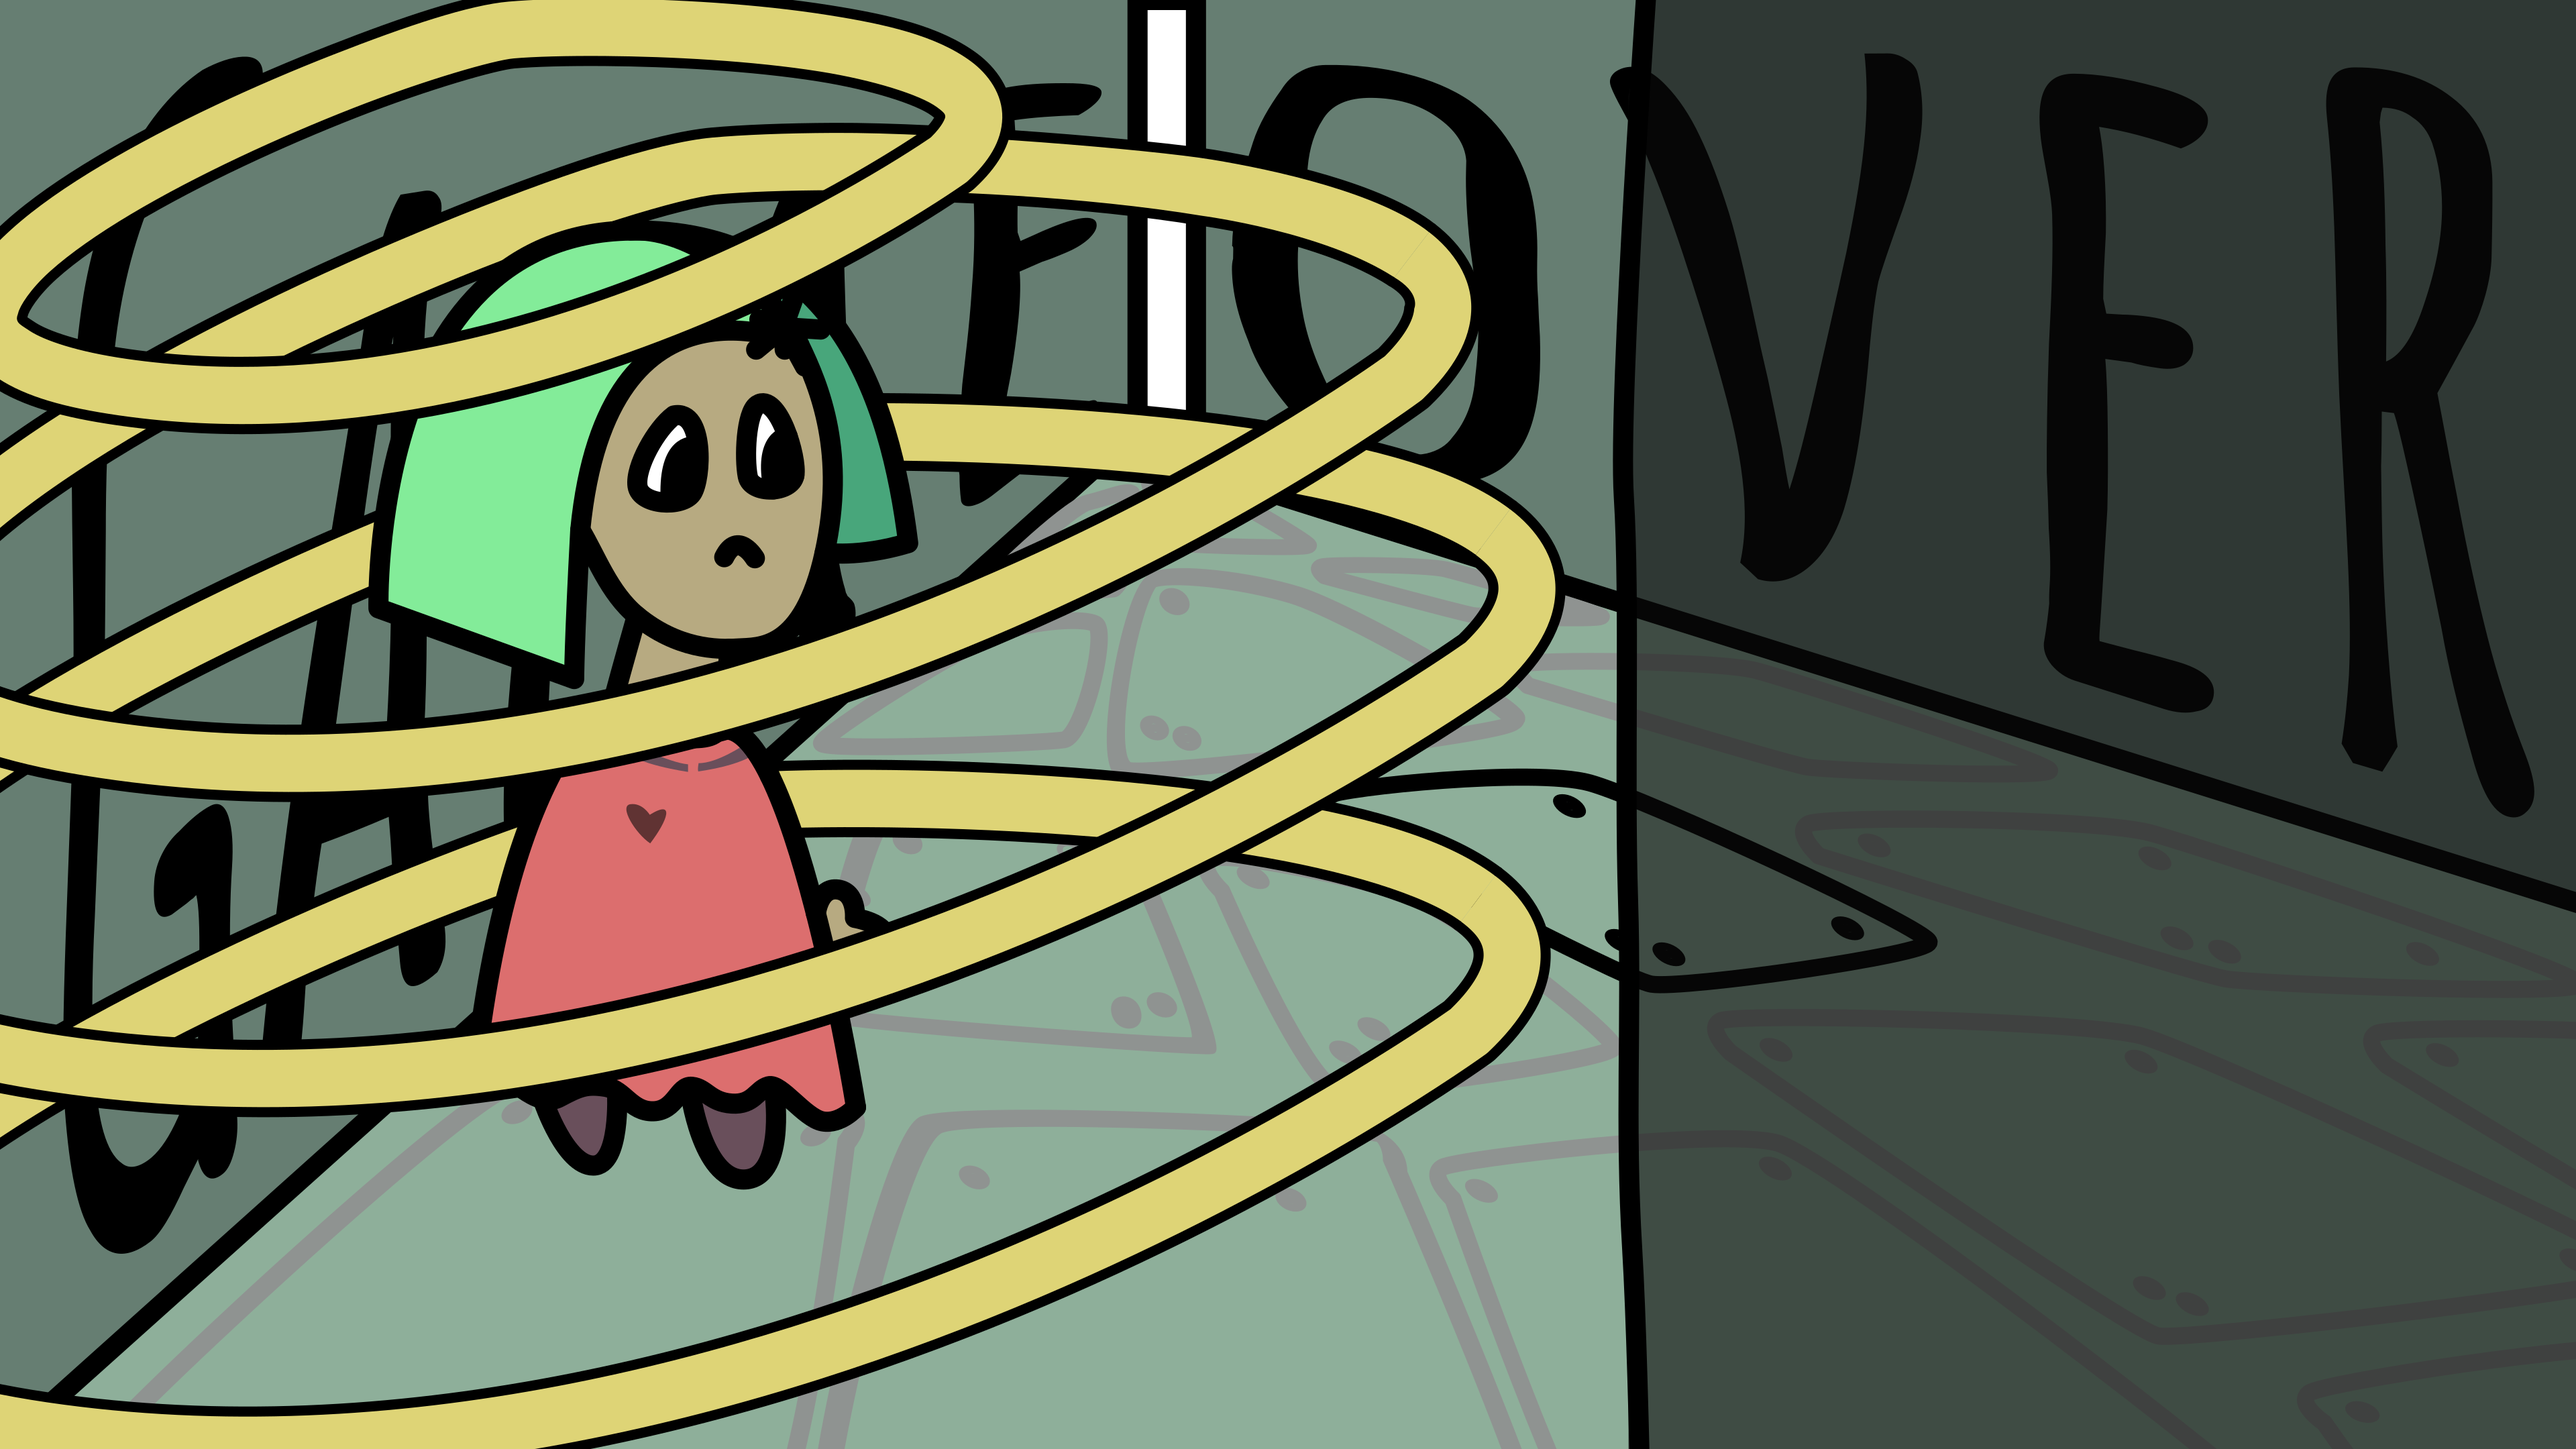
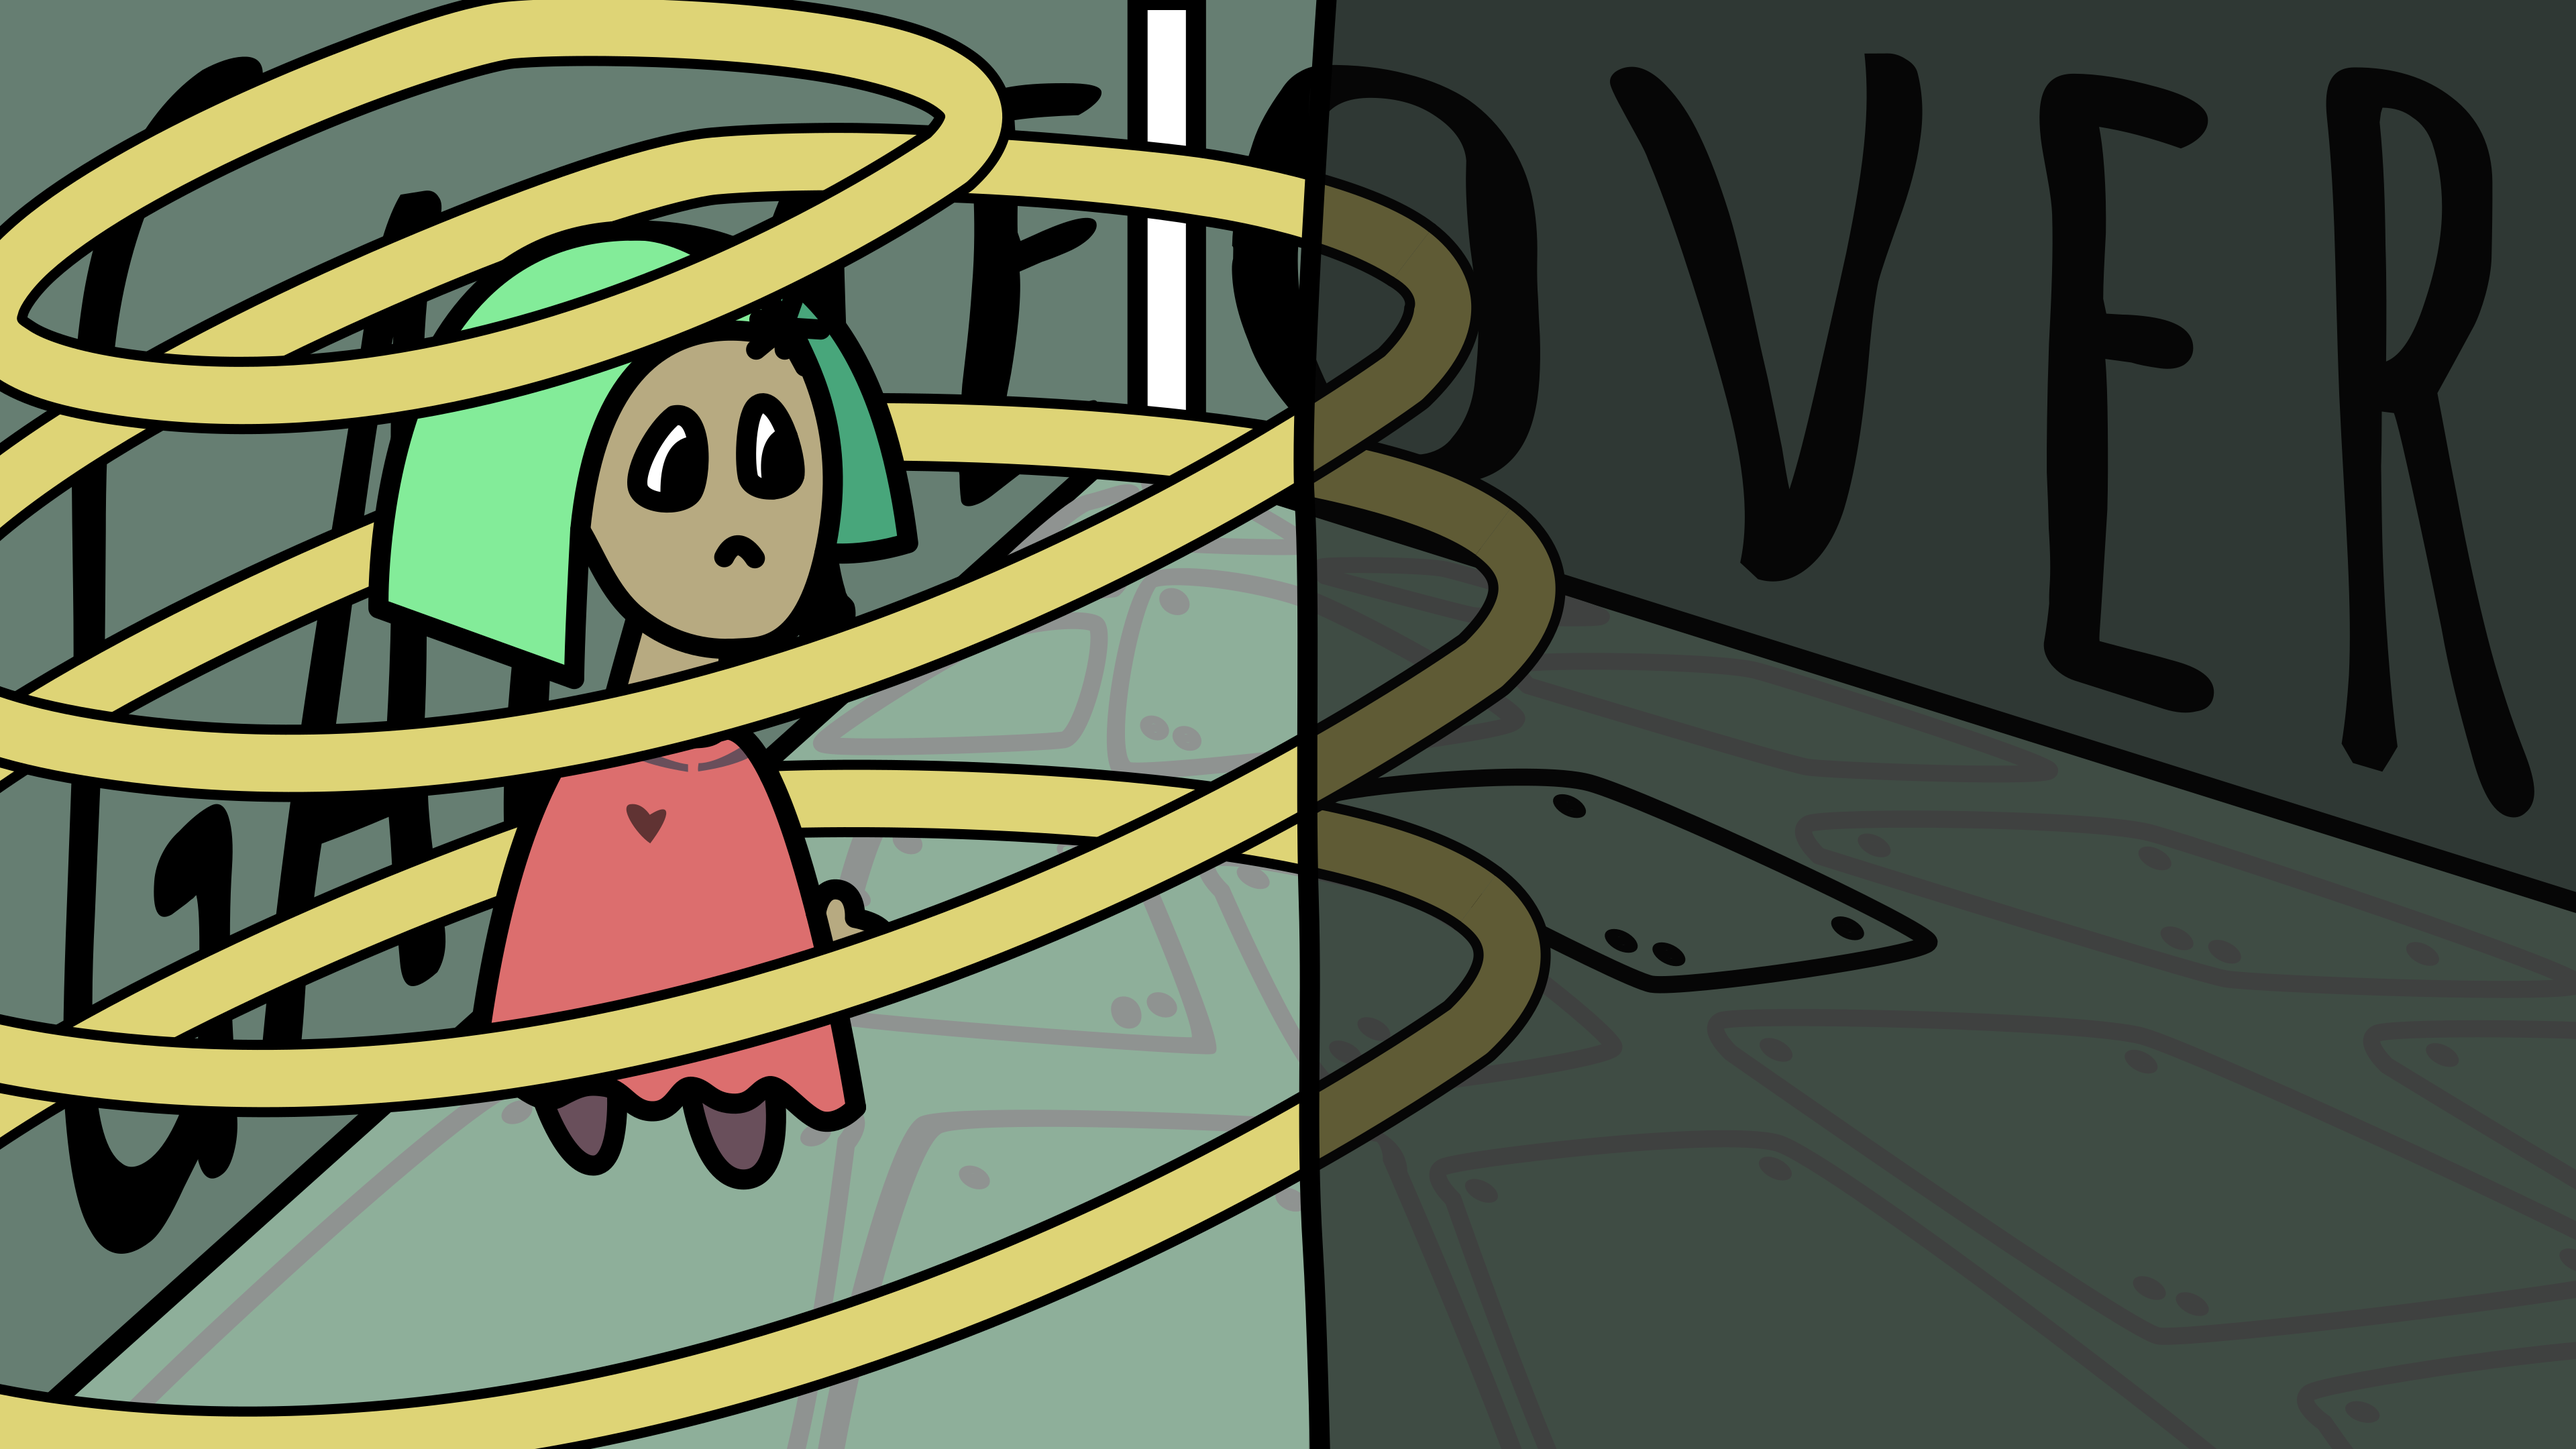
development

Changed region(s): [[0.5, 0.0, 0.6562, 1.0]]

diff --git a/executables/ui/Finish.py b/executables/ui/Finish.py
@@ -1,6 +1,7 @@
 import pygame
 
 from executables.ui.Screen import Screen
+from executables.ui.widgets.Button import Button
 from executables.ui.widgets.Label import Label
 
 
@@ -8,24 +9,38 @@ class Finish(Screen):
     def __init__(self, r, frame):
         super().__init__(r, frame)
         self.frame.fill("black")
-        self.alpha = 0
+        self.alpha = int()
         self.image = self.r.drawable("finish")
-        self.image.set_alpha(0)
-        self.add_time_event("increase_alpha", self.increase_alpha, 100)
+        self.image.set_alpha(self.alpha)
+        self.add_time_event("increase_alpha", self.increase_alpha, 5)
         label_about_destructions, label_about_floors = next(
             self.r.query("SELECT liquidated_enemies, floor FROM statistics WHERE is_finished = 0"))
         self.r.query("UPDATE statistics SET is_finished = 1")
         self.r.database.commit()
         Label(self.r, self.r.string("you_have_liquidated").replace('%', str(label_about_destructions - 1)),
-              (2405, 994), 200, self.image.get_width() * 0.48, "white").draw(self.image)
+              (2405, 394), 200, self.image.get_width() * 0.48, "white").draw(self.image)
         Label(self.r, self.r.string("you_have_reached").replace('%', str(label_about_floors)),
-              (2405, 1500), 200, self.image.get_width() * 0.48, "white").draw(self.image)
+              (2405, 900), 200, self.image.get_width() * 0.48, "white").draw(self.image)
+        self.buttons = (
+            Button(self.r, self.r.string("new_game"), (2405, 1800), lambda: self.set_signal("continue")),
+            Button(self.r, self.r.string("exit"), (2405, 1500), lambda: self.set_signal("start"))
+        )
+
+    def mouse_pressed(self, button, pos):
+        if button == 1:
+            for elem in self.buttons:
+                elem.click()
 
     def increase_alpha(self):
         self.alpha += 1
-        if self.alpha == 100:
+        if self.alpha == 255:
             self.remove_time_event("increase_alpha")
         self.image.set_alpha(self.alpha)
 
     def update(self):
+        self.frame.fill("black")
         self.frame.blit(self.image, (0, 0))
+        for elem in self.buttons:
+            elem.check_focus(pygame.mouse.get_pos())
+            elem.draw(self.frame)
+        return self.signal_to_change

diff --git a/executables/ui/Start.py b/executables/ui/Start.py
@@ -10,10 +10,10 @@ class Start(Screen):
         super().__init__(r, frame)
         self.state = int()
         self.state_multiplier = 1
-        self.yellowing = int()
-        self.yellowing_surface = pygame.Surface((self.frame.get_width(), self.frame.get_height()))
-        self.yellowing_surface.fill(self.r.color("sad_gray"))
-        self.yellowing_surface.set_alpha(self.yellowing)
+        self.alpha = int()
+        self.darking_surface = pygame.Surface((self.frame.get_width(), self.frame.get_height()))
+        self.darking_surface.fill(self.r.color("sad_gray"))
+        self.darking_surface.set_alpha(self.alpha)
         self.threshold = 120
         self.threshold_step = 10
         self.fan = [self.r.drawable("fan_state_0"), self.r.drawable("fan_state_1")]
@@ -46,11 +46,11 @@ class Start(Screen):
 
     def change_yellowing(self):
         if self.state * self.state_multiplier:
-            if self.yellowing < self.threshold:
-                self.yellowing += self.threshold_step
+            if self.alpha < self.threshold:
+                self.alpha += self.threshold_step
         else:
-            if self.yellowing > 0:
-                self.yellowing -= self.threshold_step
+            if self.alpha > 0:
+                self.alpha -= self.threshold_step
 
     def button_pressed(self, key):
         if key == pygame.K_DOWN:
@@ -72,11 +72,11 @@ class Start(Screen):
     def update(self):
         self.frame.blit(self.state_description[self.state][0], (0, 0))
         self.frame.blit(self.fan[0], (0, 0))
-        self.yellowing_surface.set_alpha(self.yellowing)
+        self.darking_surface.set_alpha(self.alpha)
         if self.state * self.state_multiplier:
-            self.frame.blit(self.yellowing_surface, (0, 0))
+            self.frame.blit(self.darking_surface, (0, 0))
             for button in self.state_description[self.state][-1]:
                 button.draw(self.frame)
         else:
-            self.frame.blit(self.yellowing_surface, (0, 0))
+            self.frame.blit(self.darking_surface, (0, 0))
         return self.signal_to_change

diff --git a/executables/ui/Screen.py b/executables/ui/Screen.py
@@ -8,6 +8,9 @@ class Screen:
         self.time_events = dict()
         self.signal_to_change = None
 
+    def set_signal(self, signal):
+        self.signal_to_change = signal
+
     def add_time_event(self, name, action, period):
         self.time_events[pygame.USEREVENT + len(self.time_events)] = name, period, action
         pygame.time.set_timer(next(reversed(self.time_events.keys())), period)

diff --git a/executables/ui/Completed.py b/executables/ui/Completed.py
@@ -25,9 +25,6 @@ class Completed(Screen):
             Button(self.r, self.r.string("save_and_quit"), (80, 1750), lambda: self.set_signal("start"))
         )
 
-    def set_signal(self, signal):
-        self.signal_to_change = signal
-
     def mouse_pressed(self, button, pos):
         if button == 1:
             for elem in self.buttons:
